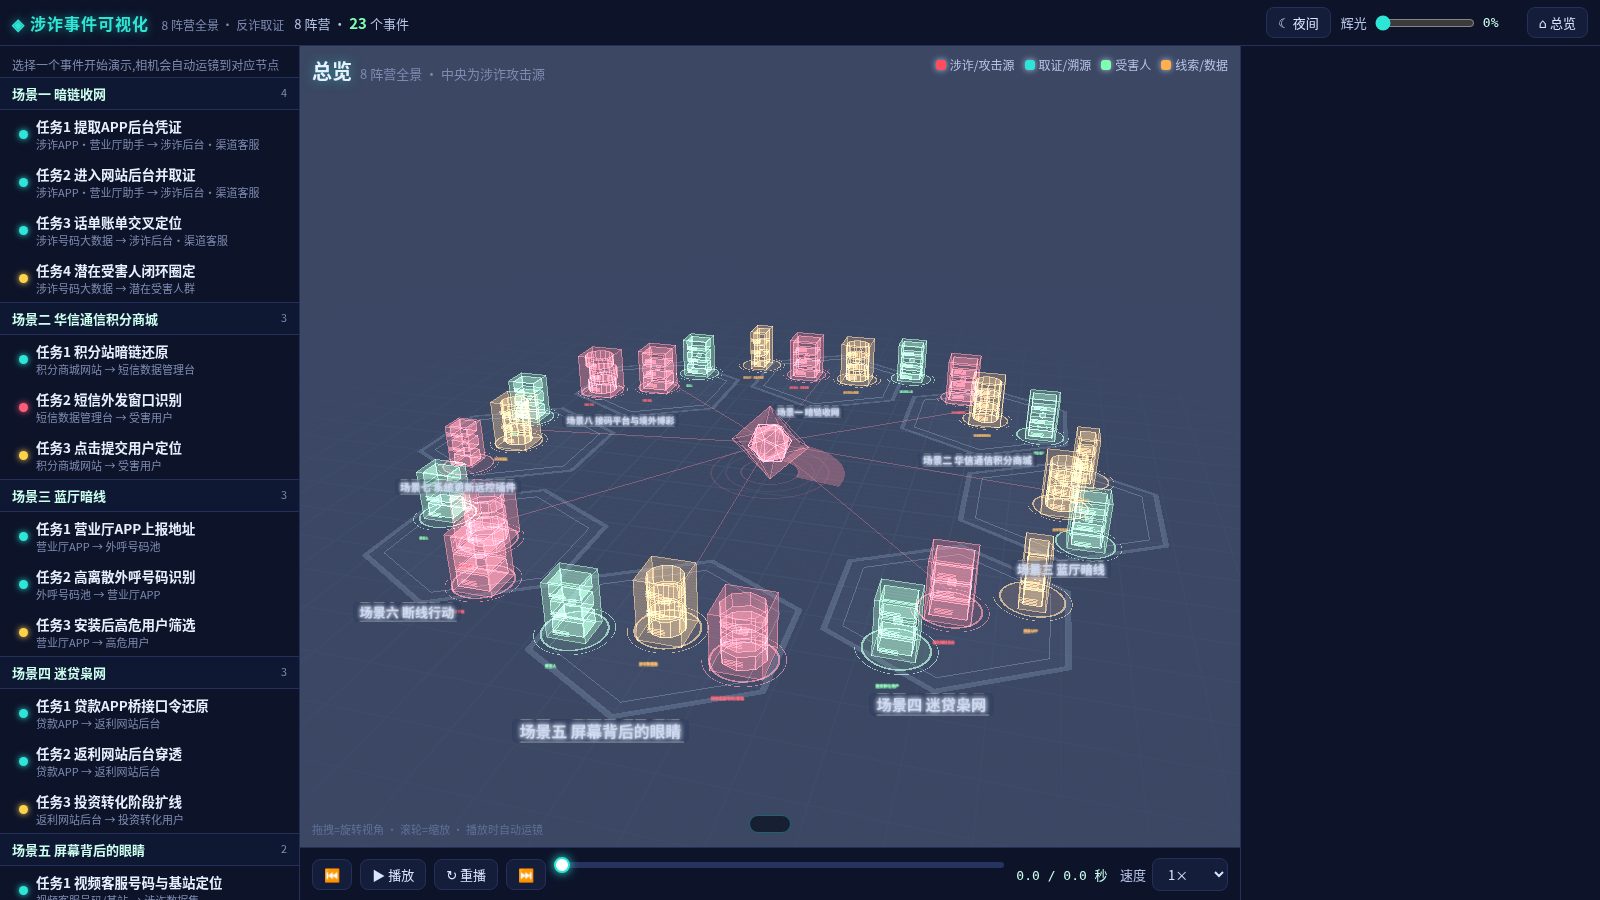
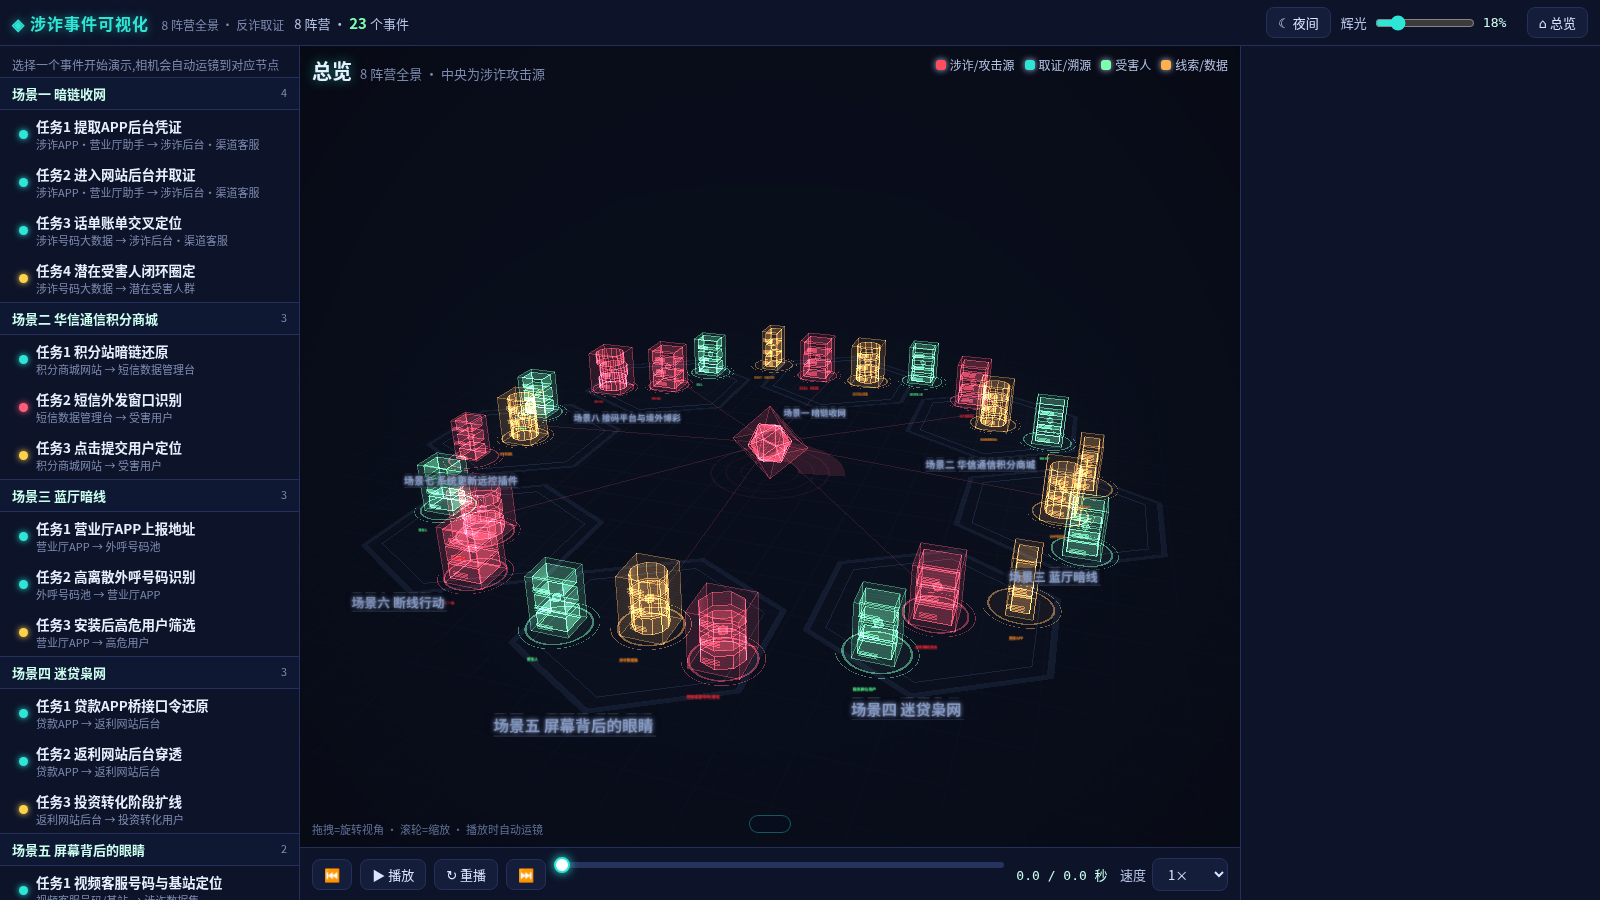
参考Unity场景:全景补最终压暗+暗角收尾pass(单场景有而全景缺,泛白根因),Bloom阈值0.9仅高光发光

diff --git a/index.html b/index.html
@@ -14,9 +14,8 @@
     <div class="brand">◈ 涉诈事件可视化 <small>8 阵营全景 · 反诈取证</small></div>
     <div class="hstat" id="total"></div>
     <div class="grow"></div>
-    <a class="navbtn" href="scene1.html" title="单场景细看:场景一·任务1">▸ 单场景细看</a>
     <button id="bTheme" type="button" title="当前夜间,点击切换到日间" aria-pressed="false">☾ 夜间</button>
-    <label class="bl" title="全局辉光强度">辉光 <input id="bloom" autocomplete="off" type="range" min="0" max="100" step="1" value="0"><span id="bloomV">0%</span></label>
+    <label class="bl" title="全局辉光强度">辉光 <input id="bloom" autocomplete="off" type="range" min="0" max="100" step="1" value="18"><span id="bloomV">18%</span></label>
     <button id="bHome" title="回到 8 阵营总览视角">⌂ 总览</button>
   </header>
   <main>
